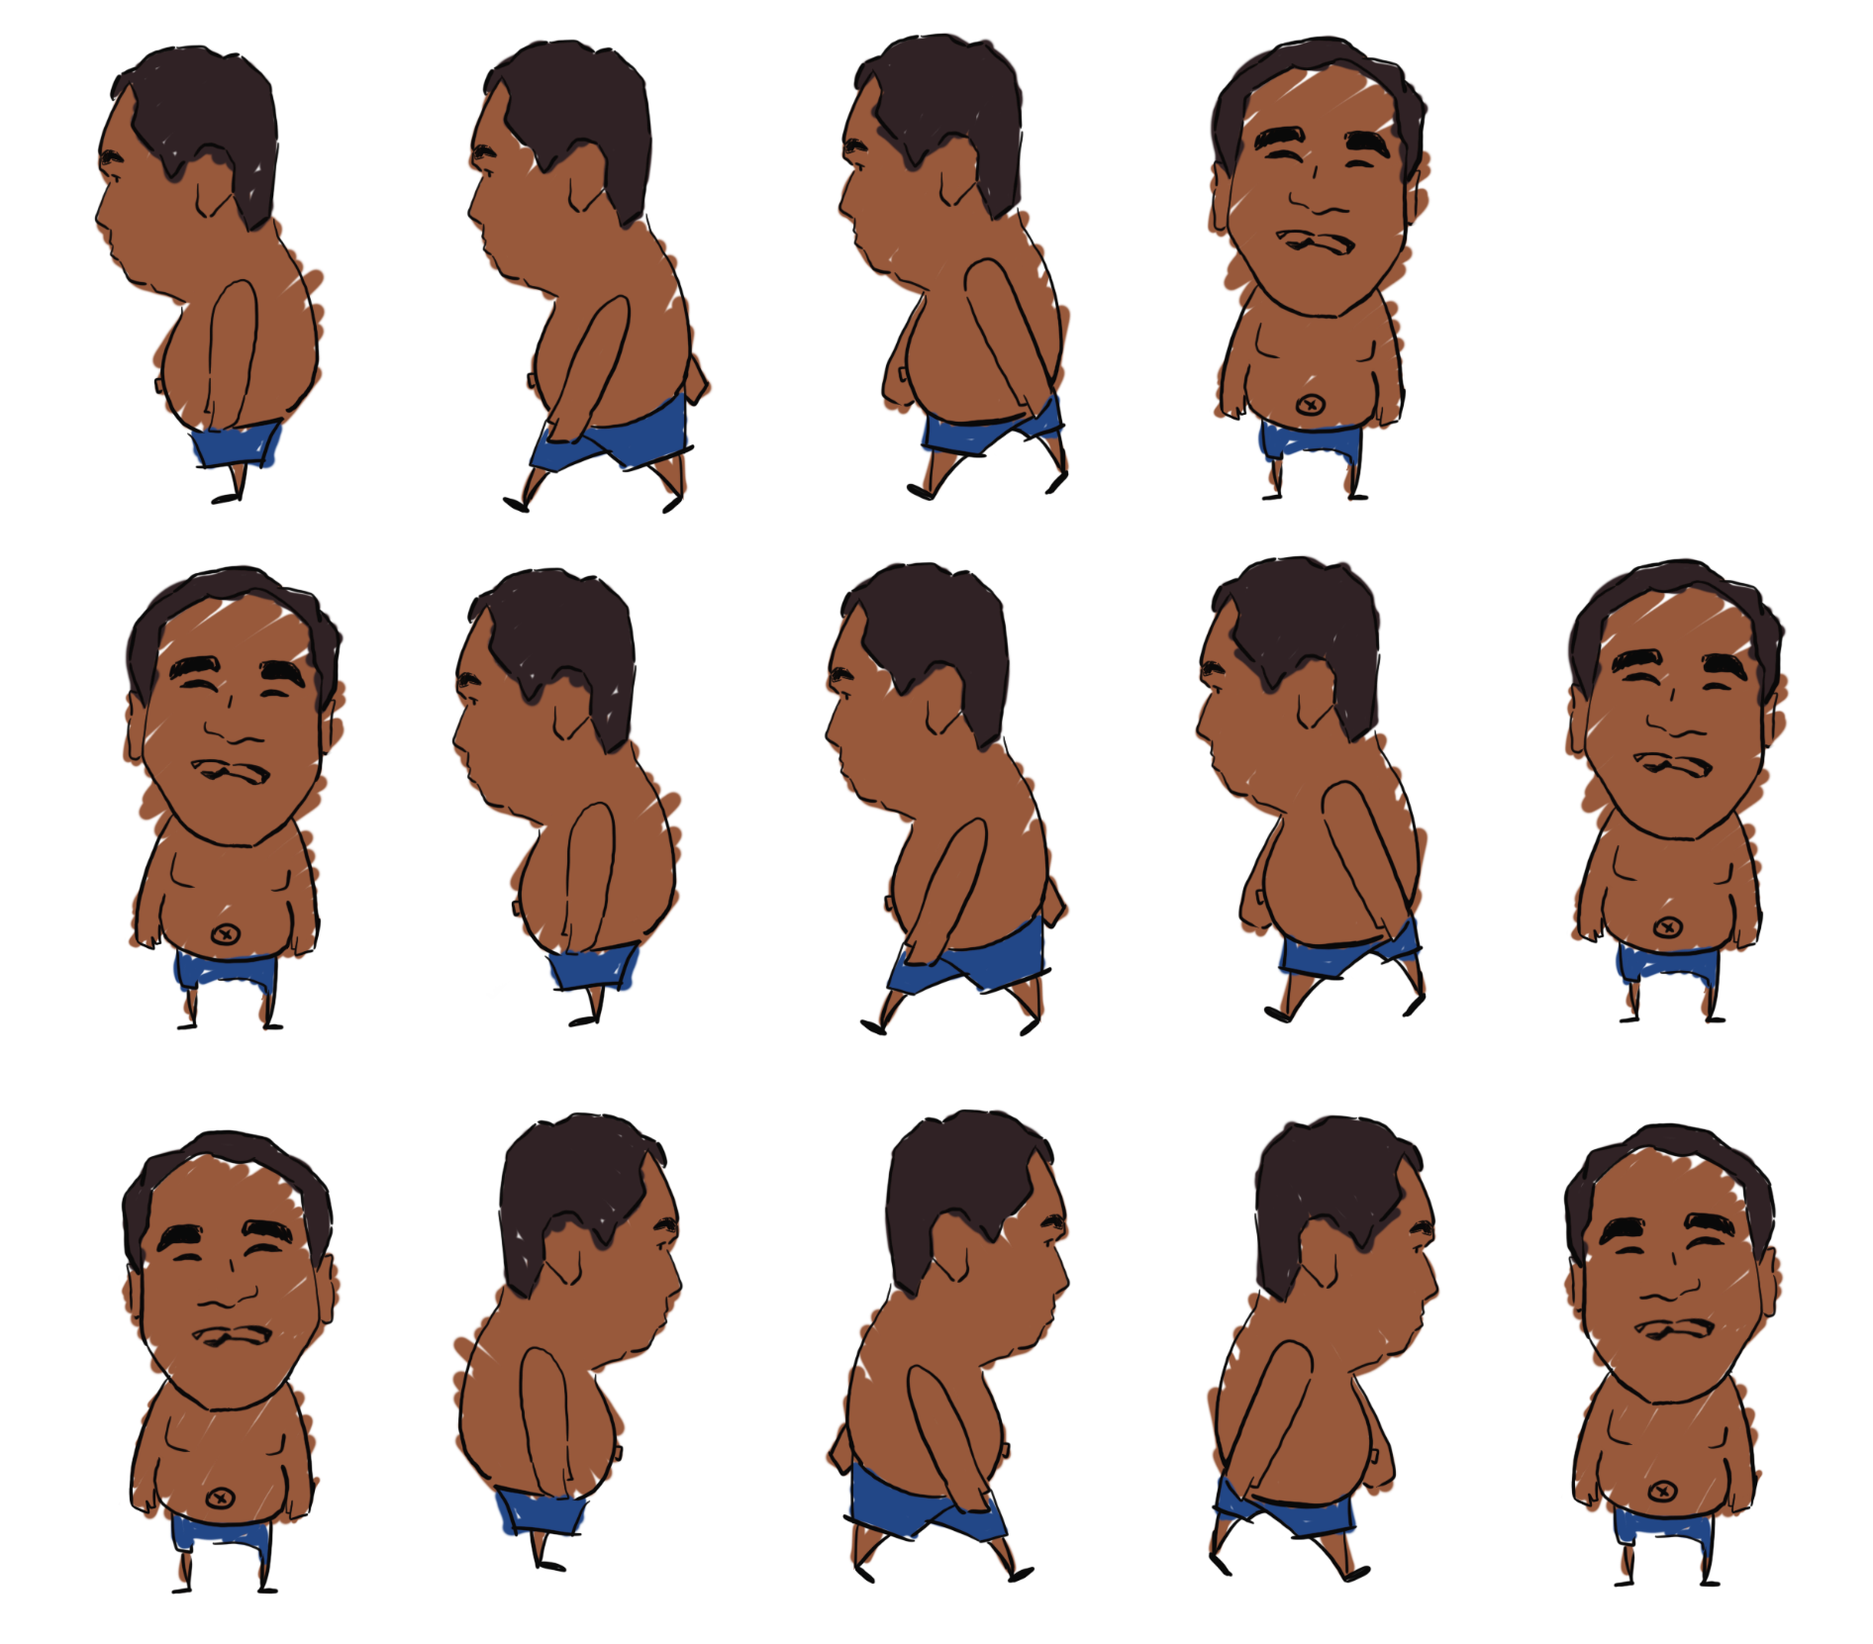
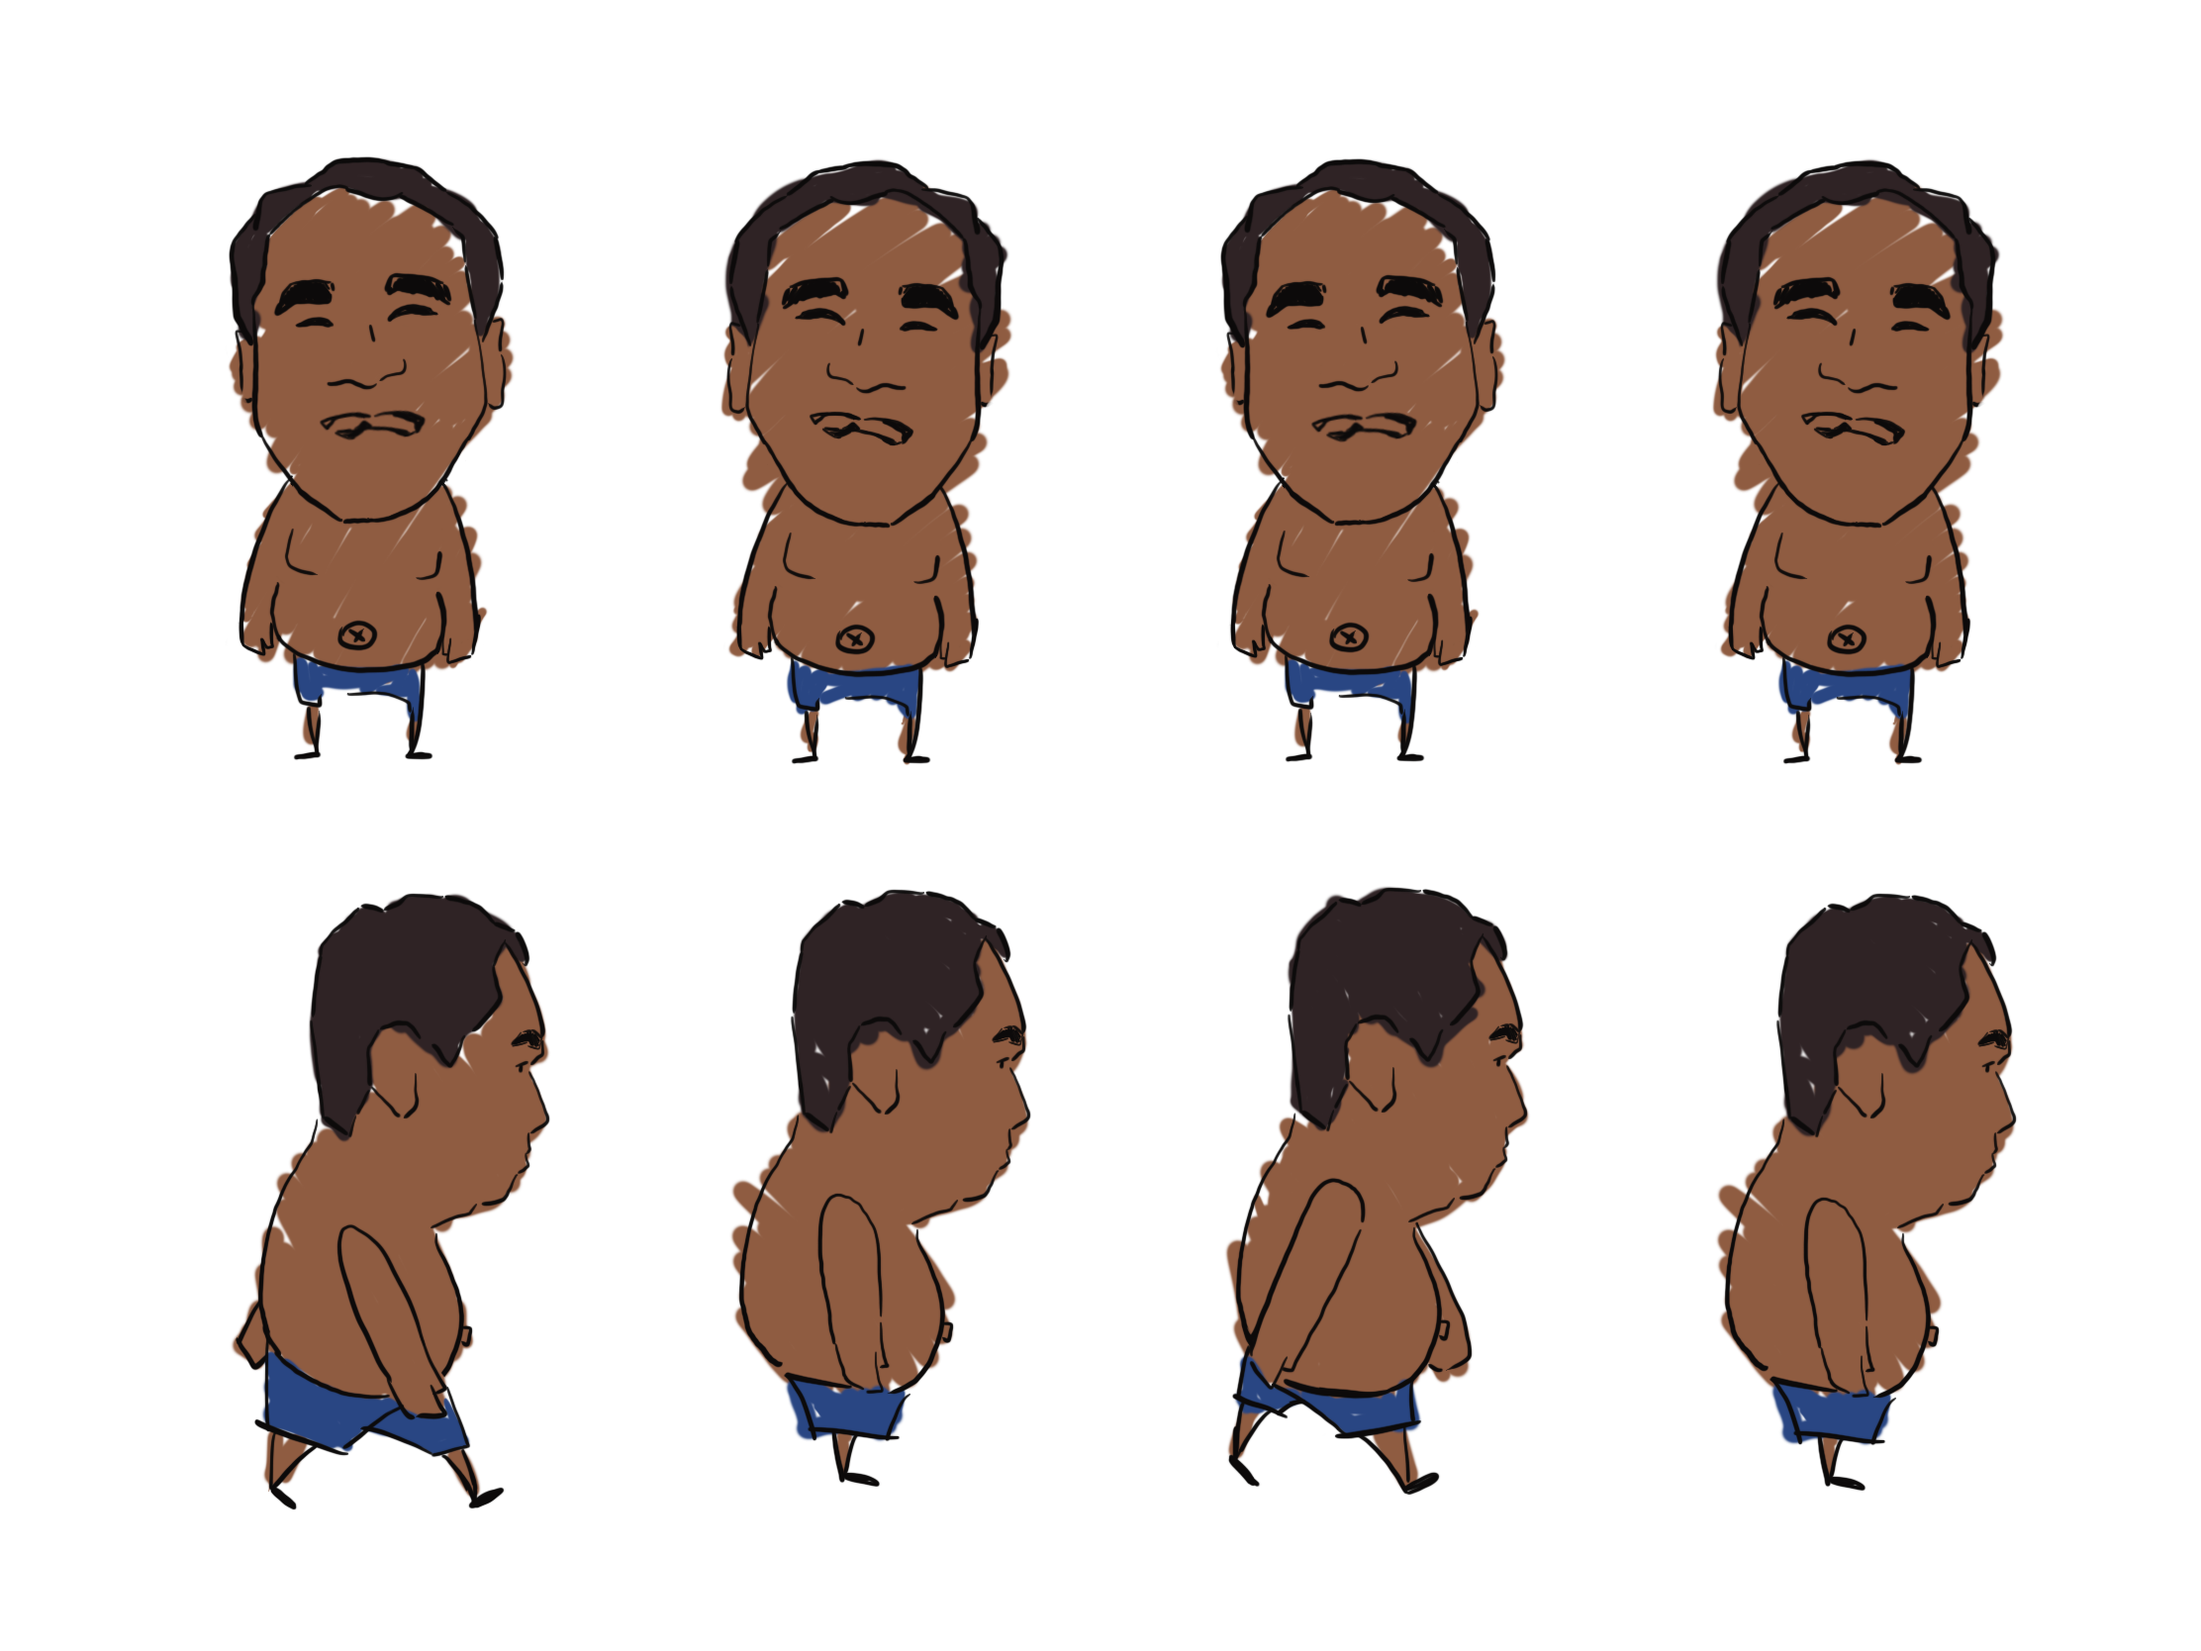
1

diff --git a/Game/Source.cpp b/Game/Source.cpp
@@ -1,5 +1,6 @@
 #include <SFML/Graphics.hpp>
 #include <iostream>
+#include"Animation.h"
 
 int main()
 {
@@ -7,17 +8,18 @@ int main()
 	sf::RectangleShape player(sf::Vector2f(300.0f, 425.0f));
 	player.setPosition(0.0f, 0.0f);
 	sf::Texture playerTexture;
-	playerTexture.loadFromFile("img/grandpa.png");
+	playerTexture.loadFromFile("img/grandpa2.png");
 	player.setTexture(&playerTexture);
 
-	sf::Vector2u textureSize = playerTexture.getSize();
-	textureSize.x /= 5;
-	textureSize.y /= 3;
+	Animation animation(&playerTexture, sf::Vector2u(4, 2), 0.3f);
 
-	player.setTextureRect(sf::IntRect(textureSize.x * 4, textureSize.y * 2, textureSize.x, textureSize.y));
+	float deltaTime = 0.0f;
+	sf::Clock clock;
 
 	while (window.isOpen())
 	{
+		deltaTime = clock.restart().asSeconds();
+
 		sf::Event evnt;
 		while (window.pollEvent(evnt))
 		{
@@ -29,7 +31,10 @@ int main()
 			}
 		}
 
-		window.clear();
+		animation.Update(0, deltaTime);
+		player.setTextureRect(animation.uvRect);
+
+		window.clear(sf::Color(150, 150, 150));
 		window.draw(player);
 		window.display();
 	}

diff --git a/Game/Animation.cpp b/Game/Animation.cpp
@@ -15,7 +15,7 @@ Animation::~Animation()
 {
 }
 
-void Animation::Update(int row, float deltaTime, bool faceRight)
+void Animation::Update(int row, float deltaTime)
 {
 	currentImage.y = row;
 	totalTime += deltaTime;
@@ -31,16 +31,7 @@ void Animation::Update(int row, float deltaTime, bool faceRight)
 		}
 	}
 
+	uvRect.left = currentImage.x * uvRect.width;
 	uvRect.top = currentImage.y * uvRect.height;
-
-	if (faceRight)
-	{
-		uvRect.left = currentImage.x * uvRect.width;
-		uvRect.width = abs(uvRect.width);
-	}
-	else
-	{
-		uvRect.left = (currentImage.x + 1) * uvRect.width;
-		uvRect.width = -abs(uvRect.width);
-	}
 }
+

diff --git a/Game/Animation.h b/Game/Animation.h
@@ -1,13 +1,13 @@
 #pragma once
-#include <SFML\Graphics.hpp>
+#include <SFML/Graphics.hpp>
 
 class Animation
 {
 public:
-	Animation(sf::Texture* texture, sf::Vector2u imageCount, float switchTime);
+	Animation(sf::Texture*texture,sf::Vector2u imageCount,float switchTime);
 	~Animation();
 
-	void Update(int row,float deltaTime)
+	void Update(int row, float deltaTime);
 
 public:
 	sf::IntRect uvRect;
